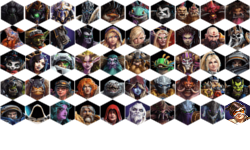
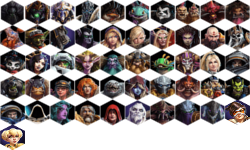
Add Chromie

Changed region(s): [[0.0, 0.8267, 0.112, 1.0]]

diff --git a/src/less/talent-pictures.less b/src/less/talent-pictures.less
@@ -76,7 +76,10 @@
 .manticore,
 .envenomed-spines,
 .untouchable,
-.leeching-rounds { background: url(../img/talents/general.png); }
+.leeching-rounds,
+.timewalker-s-pursuit,
+.peer-into-the-future,
+.bronze-talons { background: url(../img/talents/general.png); }
 
 .follow-through,           
 .giant-killer,                
@@ -86,6 +89,7 @@
 .nordic-attack-squad,                                           //The Lost Vikings
 .manticore,                                                     //Valla
 .untouchable,                                                   //Tracer
+.bronze-talons,                                                 //Chromie
 .focused-attack          { background-position:      0px 0px; } 
 .spell-shield            { background-position:    -30px 0px; }
 .relentless-soldier,                                            //Tychus
@@ -121,13 +125,15 @@
 .vigorous-assault        { background-position:   -600px 0px; } 
 .first-aid               { background-position:   -630px 0px; }
 .overdrive               { background-position:   -660px 0px; }
-.sprint                  { background-position:   -690px 0px; }
-.conjurer-s-pursuit,      
-.survivalist-training    { background-position:   -720px 0px; } //Rexxar
+.sprint                  { background-position:   -690px 0px; }      
+.timewalker-s-pursuit,                                          //Chromie
+.survivalist-training,                                          //Rexxar
+.conjurer-s-pursuit      { background-position:   -720px 0px; }
 .envenom                 { background-position:   -750px 0px; }
 .arcane-power            { background-position:   -780px 0px; }
 .healing-ward            { background-position:   -810px 0px; }
 .protective-shield       { background-position:   -840px 0px; }
+.peer-into-the-future,                                          //Chromie
 .clairvoyance            { background-position:   -870px 0px; }
 .shrink-ray              { background-position:   -900px 0px; }
 .scouting-drone          { background-position:   -930px 0px; }
@@ -500,6 +506,47 @@
 .favor-of-the-old-gods { background-position: -210px 0px; }
 .molten-block          { background-position: -240px 0px; }
 .crippling-blow        { background-position: -270px 0px; }
+
+//Chromie
+.compounding-aether,   
+.piercing-sands,       
+.shifting-sands,       
+.past-and-future-me,    
+.deep-breathing,       
+.enveloping-assault,   
+.mobius-loop,           
+.dragon-s-eye,          
+.chrono-sickness,      
+.andorhal-anomaly,      
+.slowing-sands,        
+.pocket-of-time,        
+.temporal-loop,        
+.loophole,              
+.bye-bye,               
+.reaching-through-time, 
+.time-out,              
+.fast-forward,          
+.quantum-overdrive { background: url(../img/talents/chromie.png); }      
+
+.compounding-aether,    
+.piercing-sands,        
+.shifting-sands,        
+.past-and-future-me    { background-position:    0px 0px; }
+.deep-breathing,        
+.enveloping-assault,    
+.mobius-loop           { background-position:  -30px 0px; }
+.dragon-s-eye          { background-position:  -60px 0px; }
+.chrono-sickness,       
+.andorhal-anomaly      { background-position:  -90px 0px; }
+.slowing-sands,         
+.pocket-of-time        { background-position: -120px 0px; }
+.temporal-loop,         
+.loophole              { background-position: -150px 0px; }
+.bye-bye               { background-position: -180px 0px; }
+.reaching-through-time { background-position: -210px 0px; }
+.time-out              { background-position: -240px 0px; }
+.fast-forward          { background-position: -270px 0px; }
+.quantum-overdrive     { background-position: -300px 0px; }
 
 //Dehaka
 .enduring-swarm,      

diff --git a/src/js/constants.js b/src/js/constants.js
@@ -46,6 +46,7 @@ export const HEROES = [
   { value: 'Brightwing', label: 'Brightwing'},
   { value: 'Chen', label: 'Chen'},
   { value: 'Cho', label: 'Cho'},
+  { value: 'Chromie', label: 'Chromie'},
   { value: 'Dehaka', label: 'Dehaka'},
   { value: 'Diablo', label: 'Diablo'},
   { value: 'ETC', label: 'E.T.C.'},

diff --git a/src/less/hero-portraits.less b/src/less/hero-portraits.less
@@ -59,3 +59,4 @@
 .Zeratul        { background-position: -175px -100px; }
 .Dehaka         { background-position: -200px -100px; }
 .Tracer         { background-position: -225px -100px; }
+.Chromie        { background-position:    0px -125px; }
